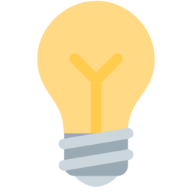
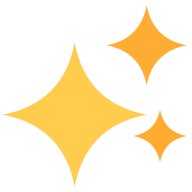
add sparkles

diff --git a/index.html b/index.html
@@ -13,8 +13,9 @@
     <meta name="twitter:description" content="Postdoctoral researcher at NYU">
     <meta name="twitter:image" content="https://www.nicklashansen.com/files/me.png">
     <title>Nicklas Hansen</title>
-    <link rel="apple-touch-icon" href="files/ucsd-logo.png">
-    <link rel="icon" type="image/png" href="files/ucsd-logo.png">
+    <link rel="icon" href="files/favicon.ico" sizes="32x32">
+    <link rel="icon" href="files/favicon.svg" type="image/svg+xml">
+    <link rel="apple-touch-icon" href="files/apple-touch-icon.png">
     <link rel="manifest" href="files/site.webmanifest">
     <link rel="preconnect" href="https://fonts.googleapis.com">
     <link rel="preconnect" href="https://fonts.gstatic.com" crossorigin>
@@ -133,7 +134,7 @@
             I recently completed my PhD at <a href="https://ucsd.edu">UC San Diego</a>, where I was advised by <a href="https://xiaolonw.github.io">Xiaolong Wang</a> and <a href="https://cseweb.ucsd.edu/~haosu">Hao Su</a>. During my PhD, I was fortunate to intern at <a href="https://www.nvidia.com/en-us/research">NVIDIA Research</a> and Meta AI (<a href="https://ai.facebook.com">FAIR</a>), and my research was supported by the <a href="https://blogs.nvidia.com/blog/graduate-research-fellowships-for-2024">NVIDIA Graduate Research Fellowship</a>. Before that, I was a visiting student at <a href="https://www.berkeley.edu">UC Berkeley</a> and a research intern at <a href="https://bair.berkeley.edu">Berkeley AI Research</a>. I received my BS and MS degrees from the Technical University of Denmark (<a href="https://www.dtu.dk/english">DTU</a>).
         </p>
         <p>
-            <span class="bold">👩💻 I am actively looking for interns! If you are interested in working with me, please fill out <a href="https://forms.gle/6uPAyqryunpTZLPs6" class="bold">this form</a>.</span>
+            <span class="bold">👩💻 If you are interested in working with me, please fill out <a href="https://forms.gle/6uPAyqryunpTZLPs6" class="bold">this form</a>.</span>
         </p>
         <br/>
         <p>I am broadly interested in advancing machine intelligence, with particular emphasis on the following topics:</p>
